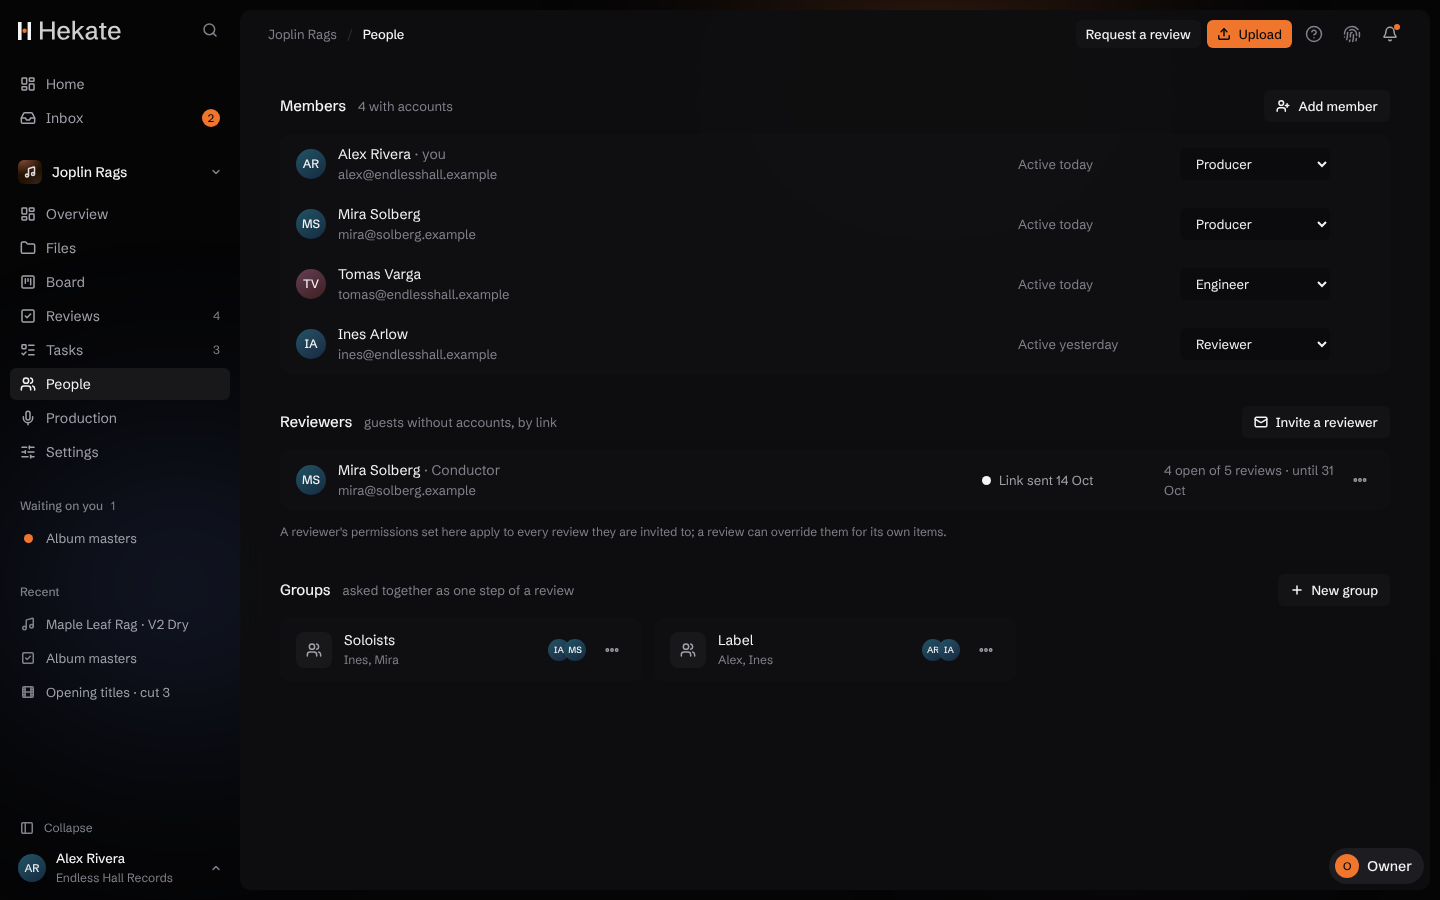
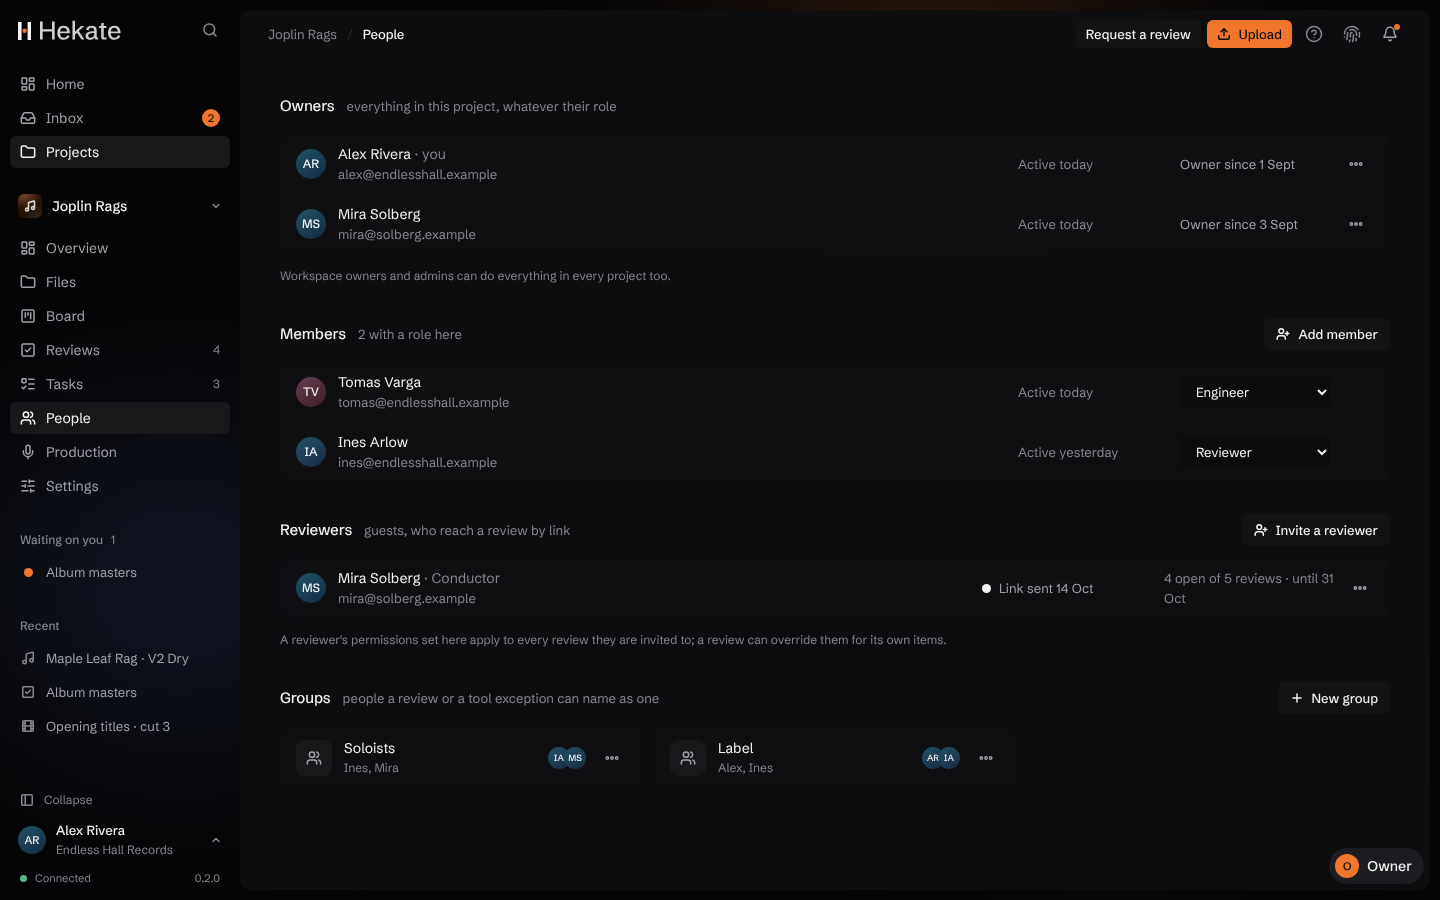
feat(prototype): owners on the People page, above members, handed on as the last one leaves
A project's owners sit in their own group above Members, each with when they
became one and "Make a member" while another owner remains; a member's menu
offers "Make an owner", and your own row "Leave project…", where the last
owner chooses who takes over.

Claude-Session: https://claude.ai/code/session_01NMxDMo5UFTp2fWhjUcBt5W

diff --git a/apps/prototype/src/routes/project-people.tsx b/apps/prototype/src/routes/project-people.tsx
@@ -3,12 +3,13 @@ import { Avatar, AvatarRow } from "~/components/avatar";
 import { Icon } from "~/components/icons";
 import { Card, SectionHead } from "~/components/page";
 import { PermissionsDialog } from "~/components/permissions";
+import { PeopleField, type Person } from "~/components/share";
 import { Dot } from "~/components/status";
 import { Button } from "~/components/ui/button";
 import { Dialog } from "~/components/ui/dialog";
 import { Input, Select, Textarea } from "~/components/ui/input";
 import { ActionMenu } from "~/components/ui/menu";
-import { groups, guests, initials, type Project, personById, reviews } from "~/data";
+import { groups, guests, initials, members, type Project, personById, reviews } from "~/data";
 import { formatDate } from "~/lib/format";
 import { useViewer } from "~/viewer/context";
 
@@ -31,12 +32,90 @@ export function People({ project }: { project: Project }) {
   const [permissionsFor, setPermissionsFor] = useState<{ id: string; guest: boolean } | null>(null);
   const memberIds = new Set(project.members.map((m) => m.personId));
   const projectGuests = guests.filter((g) => !memberIds.has(g.personId) || g.personId === "p-mira");
+  // Who owns it (decision 285): fixed above its roles, at least one, handed on as people leave.
+  const [owners, setOwners] = useState<Record<string, string>>(() =>
+    Object.fromEntries(
+      project.members.flatMap((m) => (m.ownerSince ? [[m.personId, m.ownerSince]] : [])),
+    ),
+  );
+  const [leaving, setLeaving] = useState(false);
+  const [left, setLeft] = useState(false);
+  // Owners are managed by owners, and by the workspace's owners and admins.
+  const manageOwners =
+    viewer.owns(project.id) ||
+    viewer.persona.organisationRole === "owner" ||
+    viewer.persona.organisationRole === "admin";
+  const ownerIds = Object.keys(owners);
+  const here = project.members.filter((m) => !(left && m.personId === viewer.personId));
+  const ownerRows = here.filter((m) => owners[m.personId]);
+  const memberRows = here.filter((m) => !owners[m.personId]);
+  const mine = (personId: string) => personId === viewer.personId;
+  const leaveAction = (personId: string) =>
+    mine(personId) ? [{ label: "Leave project…", onSelect: () => setLeaving(true) }] : [];
   return (
     <div className="flex flex-col gap-8">
       <section className="flex flex-col gap-3">
+        <SectionHead title="Owners" hint="everything in this project, whatever their role" />
+        <Card>
+          <ul className="list-none p-0">
+            {ownerRows.map((m) => {
+              const p = personById(m.personId);
+              const since = owners[m.personId] ?? "";
+              const actions = [
+                // A project keeps at least one owner: the last cannot step down.
+                ...(manageOwners && ownerIds.length > 1
+                  ? [
+                      {
+                        label: "Make a member",
+                        hint: "Back to their role in the project",
+                        onSelect: () => {
+                          const { [m.personId]: _, ...rest } = owners;
+                          setOwners(rest);
+                        },
+                      },
+                    ]
+                  : []),
+                ...leaveAction(m.personId),
+              ];
+              return (
+                <li
+                  key={m.personId}
+                  className="group grid grid-cols-[auto_minmax(0,1fr)_auto] items-center gap-3 border-b border-line px-4 py-2.5 last:border-b-0 @3xl/app:grid-cols-[auto_minmax(0,1fr)_150px_150px_auto]"
+                >
+                  <Avatar personId={m.personId} size={30} />
+                  <span className="min-w-0">
+                    <span className="block truncate text-[14px] text-ink">
+                      {p.name}
+                      {mine(m.personId) && <span className="text-ink-3"> · you</span>}
+                    </span>
+                    <span className="block truncate text-[13px] text-ink-3">{p.email}</span>
+                  </span>
+                  <span className="hidden text-[13px] text-ink-3 @3xl/app:block">
+                    Active {m.personId === "p-ines" ? "yesterday" : "today"}
+                  </span>
+                  <span className="hidden text-[13px] text-ink-2 @3xl/app:block">
+                    Owner since {formatDate(since)}
+                  </span>
+                  <span className="w-8">
+                    {actions.length > 0 && <ActionMenu always label={p.name} actions={actions} />}
+                  </span>
+                </li>
+              );
+            })}
+          </ul>
+        </Card>
+        <p className="text-[12px] text-ink-3">
+          {ownerIds.length === 1
+            ? "A project always has an owner: make someone else one before this one steps down. "
+            : ""}
+          Workspace owners and admins can do everything in every project too.
+        </p>
+      </section>
+
+      <section className="flex flex-col gap-3">
         <SectionHead
           title="Members"
-          hint={`${project.members.length} with accounts`}
+          hint={`${memberRows.length} with a role here`}
           action={
             manage && (
               <Button variant="secondary" size="md" onClick={() => setDialog("member")}>
@@ -48,9 +127,35 @@ export function People({ project }: { project: Project }) {
         />
         <Card>
           <ul className="list-none p-0">
-            {project.members.map((m) => {
+            {memberRows.map((m) => {
               const p = personById(m.personId);
               const role = project.roles.find((r) => r.id === m.roleId);
+              const actions = [
+                ...(manageOwners
+                  ? [
+                      {
+                        label: "Make an owner",
+                        hint: "Everything in the project, whatever their role",
+                        onSelect: () => setOwners({ ...owners, [m.personId]: NOW_ISO }),
+                      },
+                    ]
+                  : []),
+                ...(manage
+                  ? [
+                      {
+                        label: "Review permissions…",
+                        onSelect: () => setPermissionsFor({ id: m.personId, guest: false }),
+                      },
+                    ]
+                  : []),
+                ...leaveAction(m.personId),
+                ...(manage && !mine(m.personId)
+                  ? [
+                      "divider" as const,
+                      { label: "Remove from project", danger: true, onSelect: () => {} },
+                    ]
+                  : []),
+              ];
               return (
                 <li
                   key={m.personId}
@@ -60,7 +165,7 @@ export function People({ project }: { project: Project }) {
                   <span className="min-w-0">
                     <span className="block truncate text-[14px] text-ink">
                       {p.name}
-                      {m.personId === viewer.personId && <span className="text-ink-3"> · you</span>}
+                      {mine(m.personId) && <span className="text-ink-3"> · you</span>}
                     </span>
                     <span className="block truncate text-[13px] text-ink-3">{p.email}</span>
                   </span>
@@ -79,23 +184,16 @@ export function People({ project }: { project: Project }) {
                     <span className="text-[13px] text-ink-2">{role?.name}</span>
                   )}
                   <span className="w-8">
-                    {manage && (
-                      <ActionMenu
-                        label={p.name}
-                        actions={[
-                          {
-                            label: "Review permissions…",
-                            onSelect: () => setPermissionsFor({ id: m.personId, guest: false }),
-                          },
-                          "divider",
-                          { label: "Remove from project", danger: true, onSelect: () => {} },
-                        ]}
-                      />
-                    )}
+                    {actions.length > 0 && <ActionMenu label={p.name} actions={actions} />}
                   </span>
                 </li>
               );
             })}
+            {memberRows.length === 0 && (
+              <li className="px-4 py-4 text-[13px] text-ink-3">
+                Nobody but its owners yet. Add members to give them a role.
+              </li>
+            )}
           </ul>
         </Card>
       </section>
@@ -275,6 +373,19 @@ export function People({ project }: { project: Project }) {
         </div>
       </section>
 
+      {leaving && (
+        <LeaveDialog
+          project={project}
+          lastOwner={Boolean(owners[viewer.personId]) && ownerIds.length === 1}
+          onClose={() => setLeaving(false)}
+          onLeave={(successor) => {
+            const { [viewer.personId]: _, ...rest } = owners;
+            setOwners(successor ? { ...rest, [successor]: NOW_ISO } : rest);
+            setLeft(true);
+            setLeaving(false);
+          }}
+        />
+      )}
       {permissionsFor && (
         <PermissionsDialog
           personId={permissionsFor.id}
@@ -449,5 +560,80 @@ export function People({ project }: { project: Project }) {
         </Dialog>
       )}
     </div>
+  );
+}
+
+/** What a new owner's "since" reads in the prototype: its fixed today. */
+const NOW_ISO = "2026-10-15T09:00:00Z";
+
+/**
+ * Leaving a project (decision 285): you lose your place in it. Its last owner cannot simply
+ * go, as Slack's primary owner cannot: they choose who takes over, who becomes an owner as
+ * they leave.
+ */
+function LeaveDialog({
+  project,
+  lastOwner,
+  onClose,
+  onLeave,
+}: {
+  project: Project;
+  lastOwner: boolean;
+  onClose: () => void;
+  onLeave: (successor: string | null) => void;
+}) {
+  const viewer = useViewer();
+  const [chosen, setChosen] = useState<Person[]>([]);
+  const people: Person[] = members
+    .filter((m) => m.personId !== viewer.personId)
+    .map((m) => ({
+      key: `member:${m.personId}`,
+      name: personById(m.personId).name,
+      hint: project.members.some((x) => x.personId === m.personId)
+        ? "In this project"
+        : "In the workspace",
+      kind: "member" as const,
+      personId: m.personId,
+    }));
+  const successor = chosen[0]?.personId ?? null;
+  return (
+    <Dialog
+      title={`Leave ${project.name}?`}
+      description={
+        lastOwner
+          ? "You are its only owner, and a project always has one. Choose who takes over: they become its owner as you leave."
+          : "You lose your place in it and what your role gave you. An owner or a workspace admin can add you again."
+      }
+      onClose={onClose}
+      width="sm"
+      footer={
+        <>
+          <Button variant="ghost" onClick={onClose}>
+            Cancel
+          </Button>
+          <Button
+            variant="primary"
+            disabled={lastOwner && !successor}
+            onClick={() => onLeave(lastOwner ? successor : null)}
+          >
+            {lastOwner ? "Hand over and leave" : "Leave project"}
+          </Button>
+        </>
+      }
+    >
+      {lastOwner && (
+        <div className="flex flex-col gap-1.5 text-[13px] text-ink-2">
+          Who takes over
+          <PeopleField
+            label="Who takes over"
+            placeholder="A member of the workspace"
+            people={people}
+            chosen={chosen}
+            // One successor: a new choice takes the place of the last, and only a member counts.
+            onChange={(next) => setChosen(next.filter((p) => p.kind === "member").slice(-1))}
+          />
+        </div>
+      )}
+    </Dialog>
   );
 }

diff --git a/apps/prototype/src/viewer/context.tsx b/apps/prototype/src/viewer/context.tsx
@@ -66,6 +66,8 @@ export interface Viewer {
   projects: () => Project[];
   canSee: (projectId: string) => boolean;
   can: (projectId: string, permission: ProjectPermission) => boolean;
+  /** Whether this person is one of the project's owners (decision 285). */
+  owns: (projectId: string) => boolean;
   /** The tools this person's role gives them in a project. */
   tools: (projectId: string) => Set<Tool>;
   /** The reviewer row for this person in a review, if they are in it. */
@@ -126,22 +128,29 @@ export function ViewerProvider({ children }: { children: ReactNode }) {
       return roleId ? (project.roles.find((r) => r.id === roleId) ?? null) : null;
     };
     const elevated = persona.organisationRole === "owner" || persona.organisationRole === "admin";
+    // An owner of a project may do everything in it, whatever their role says (decision 285).
+    const owns = (projectId: string) => {
+      const project = projects.find((p) => p.id === projectId);
+      if (!project || isGuest || isInstance) return false;
+      return Boolean(project.members.find((m) => m.personId === persona.personId)?.ownerSince);
+    };
     const canSee = (projectId: string) => {
       const project = projects.find((p) => p.id === projectId);
       if (!project || isGuest || isInstance) return false;
-      if (elevated) return true;
+      if (elevated || owns(projectId)) return true;
       return roleIn(project)?.permissions.includes("view") ?? false;
     };
     const can = (projectId: string, permission: ProjectPermission) => {
       const project = projects.find((p) => p.id === projectId);
       if (!project || !canSee(projectId)) return false;
-      if (elevated) return true;
+      if (elevated || owns(projectId)) return true;
       return roleIn(project)?.permissions.includes(permission) ?? false;
     };
     const tools = (projectId: string): Set<Tool> => {
       const project = projects.find((p) => p.id === projectId);
       if (!project || !canSee(projectId)) return new Set();
-      if (elevated) return new Set(project.roles.find((r) => r.id === "r-producer")?.tools ?? []);
+      if (elevated || owns(projectId))
+        return new Set(project.roles.find((r) => r.id === "r-producer")?.tools ?? []);
       return new Set(roleIn(project)?.tools ?? []);
     };
     const reviewerIn = (review: Review) => {
@@ -224,6 +233,7 @@ export function ViewerProvider({ children }: { children: ReactNode }) {
       projects: () => projects.filter((p) => canSee(p.id) && !p.archived),
       canSee,
       can,
+      owns,
       tools,
       reviewerIn,
       reviews: myReviews,

diff --git a/apps/prototype/src/data/projects.ts b/apps/prototype/src/data/projects.ts
@@ -81,8 +81,8 @@ export const projects: Project[] = [
     createdAt: "2026-09-01T09:00:00Z",
     roles: roles(),
     members: [
-      { personId: "p-alex", roleId: "r-producer" },
-      { personId: "p-mira", roleId: "r-producer" },
+      { personId: "p-alex", roleId: "r-producer", ownerSince: "2026-09-01T09:00:00Z" },
+      { personId: "p-mira", roleId: "r-producer", ownerSince: "2026-09-03T10:00:00Z" },
       { personId: "p-tomas", roleId: "r-engineer" },
       { personId: "p-ines", roleId: "r-reviewer" },
     ],
@@ -103,7 +103,7 @@ export const projects: Project[] = [
       { personId: "p-alex", roleId: "r-viewer" },
       { personId: "p-ines", roleId: "r-reviewer" },
       { personId: "p-tomas", roleId: "r-editor" },
-      { personId: "p-mira", roleId: "r-producer" },
+      { personId: "p-mira", roleId: "r-producer", ownerSince: "2026-09-20T11:00:00Z" },
     ],
     deliveryProfile: "broadcast",
     references: { page: false, bar: false, beat: false },

diff --git a/apps/prototype/src/data/types.ts b/apps/prototype/src/data/types.ts
@@ -64,6 +64,11 @@ export interface ProjectRole {
 export interface ProjectMembership {
   personId: string;
   roleId: string;
+  /**
+   * When they became one of the project's owners (decision 285), fixed above its roles: an
+   * owner may do everything in it, whatever their role says. A project has at least one.
+   */
+  ownerSince?: string;
 }
 
 export interface Group {

diff --git a/apps/prototype/docs/inventory.md b/apps/prototype/docs/inventory.md
@@ -77,7 +77,7 @@ The last column names each screen's captures in `docs/screens`, 1440 by 900, as 
 | Project files | The file manager: folders, tracks among folders as a special kind of folder, files; list and grid with configurable columns; Upload button and drop anywhere, and in a music project audio is asked in the upload dialog whether it becomes a new track (one each, or one track with a version per file), a new version of a track (the one it was dropped on by default) or just a file, the choice remembered per project (#485); "attach to" after upload (a version's variant, a take, loose); row menus on hover and the same menu on a right click, a long press, the Menu key or Shift+F10 (rename, move, cut, tag, favourite, mark viewed, delete), and on the empty space (new folder, new track, upload, paste, select all); a name renamed in its row (F2, or a slow second click on a selected row); moving by dragging onto a folder, a track or the breadcrumb, by a folder picker (Move to…) or by cut and paste; tags edited in the row's tag cell and the details sheet, with the workspace's tags offered as one types; bulk selection; breadcrumb; sort and filters (type, unviewed, with comments, mine, favourites, tags), which look across the whole project, each result saying where it lives, shown as removable chips under the toolbar; favourites sit at the top of their folder (the one personal mark, decision 269), and an unviewed file carries a dot. | Empty folder; uploading (resumable, per-file progress, retry); processing (probing, analysing, rendering pages); failed upload; failed processing; long names; thousands of files; a file under review that cannot be deleted. | #8 #10 #19 #20 #27 | [files](screens/files.png), [files-columns](screens/files-columns.png) |
 | Project board | Where everything stands: columns per workflow status, each card a track or deliverable with who it waits on, the next stage and the due date (the track's own deadline, flagged, over its review's; late in signal); a timeline view approximating a Gantt from the schedule and due dates, each track's bar ending at its deadline, with the calendar's entries under the tracks: a bar's end is dragged to set the deadline, an entry dragged to move it or its end to change its length, each change saved and offered back with Undo; a calendar view of what is due and booked, with New entry (or a double-click on a day) for a dated thing that is none of those (a session, a delivery, a meeting: title, day or range, what it concerns, attendees; a session entry books a recording session under Production), an entry opening to be changed or removed. | Empty; a track with no workflow; an overdue deadline. | #26 #505, canvas note | [board](screens/board.png), [calendar](screens/calendar.png) |
 | Project reviews | Reviews in this project: state, due, reviewers responded; request a review. | Empty. | #22 | |
-| Project people | Members and their roles, groups, guests; invite a member; invite a reviewer in a small dialog (email, name, the role shown beside their name, a group to join, a note kept for the team), who then sits under Reviewers to be asked into reviews later (#502); change role; remove. | A pending invitation; empty groups; a reviewer not yet asked. | #23 #24 #502 | [people](screens/people.png) |
+| Project people | Owners above Members (#507, decision 285): the project's owners, fixed above its roles, who may do everything in it whatever their role says, each with when they became one and "Make a member" while another owner remains; members and their roles, with "Make an owner" in a member's menu; "Leave project…" on your own row, where the last owner is asked who takes over (a member of the workspace, chosen in the people field) and leaves only by handing it on; groups, guests; invite a member; invite a reviewer in a small dialog (email, name, the role shown beside their name, a group to join, a note kept for the team), who then sits under Reviewers to be asked into reviews later (#502); change role; remove. | Two owners; one owner (no "Make a member", a line saying a project always has an owner); nobody but its owners; the last owner leaving; a pending invitation; empty groups; a reviewer not yet asked. | #23 #24 #502 #507 | [people](screens/people.png), [people-leave](screens/people-leave.png) |
 | Project settings | Name, profile, archive, save as a template (roles, categories, delivery profile, QA rules and version checks, a copy; the workspace's templates listed, removable by whoever saved one or an admin; new projects start from a template or another project), delivery profile (project default, overridable per track and file), comment anchors (pages, bars, beats on or off, also per track), comment categories, carry-over default (show on this version), playback normalisation (off, optional, forced), tool access matrix, roles, workflow, asset security, storage backend for new files, danger zone (archive; delete, asked for by someone who may delete and confirmed by a second workspace owner, typing the project's name, then archived and removed after seven days unless kept; move to another workspace, asked for by someone who may delete it, typing its name and their password, moved at once where they run both workspaces, otherwise approved by a second member and accepted by the other workspace). | Validation; a role in use cannot be deleted; a deletion asked for and waiting for an owner; a sole owner confirming a day later; a project to be deleted, with "Keep it"; a move waiting for its approval and acceptance, with Withdraw, Refuse and Approve. | #7 #23 #31 #35 #36 #43 #55 #56 #98 #240 | [qa-rules](screens/qa-rules.png) |
 | Roles | The permission matrix per role with the five defaults; add, rename, delete a role. | The last role with "manage roles" cannot lose it. | #23 #80 | [roles](screens/roles.png) |
 | Workflow builder | A canvas of stages (approval, feedback, task) and statuses with connections for transitions and dependencies; a stage editor (kind, participants, order, rule, due offset, notifications); statuses grouped to do, in progress, done; templates (Simple approval, Conductor first, Parallel stakeholders); duplicate from another project; simulation stepping through outcomes; activate; per-track override. Legible however it is drawn: each connector says its outcome and condition in a chip at its start, cut short where steps sit close, and loops run beneath in lanes of their own; Tidy up (Shift T, or a workflow's menu) lays every workflow out again with nothing overlapping, with Undo. Upload workflows too: rules on what arrives and prerequisite checks (a true peak ceiling, loudness, format, an edit decision list) that warn or refuse. | Default workflow; invalid graph; simulating; a track overriding the project. | #25 #26 | [workflow](screens/workflow.png), [workflow-basic](screens/workflow-basic.png), [workflow-run](screens/workflow-run.png), [workflow-code](screens/workflow-code.png) |
